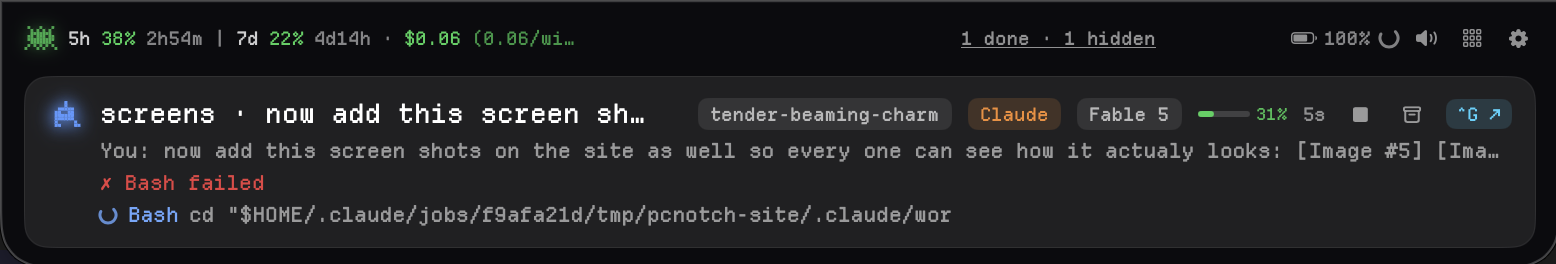
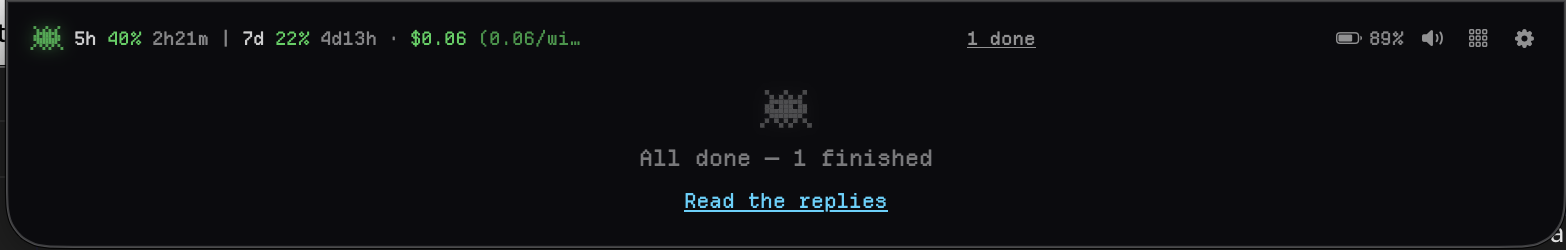
Swap screenshots for new set (live session + All done state)

diff --git a/index.html b/index.html
@@ -534,12 +534,12 @@ footer .flinks { margin-top: 12px; display: flex; gap: 22px; justify-content: ce
     <div class="sec-head reveal">
       <div class="sec-tag">Screenshots</div>
       <h2>The actual app, on a real Mac</h2>
-      <p>PcNotch watching a live Claude session: quota strips, per-session cost and model, tool calls as they run. Yes, that red line is a denied rm -rf.</p>
+      <p>PcNotch over a live Claude session: quota strips, per-session cost and model, the agent's reply right under the notch, and the calm All done state when everything finishes.</p>
     </div>
-    <img class="shot reveal" src="screens/panel-live.png" width="1558" height="490" loading="lazy"
-      alt="PcNotch drop panel over a live Claude session: quota meters, cost, model chip, the agent's reply, and a Bash rm -rf command stopped by a permission denial">
-    <img class="shot reveal" src="screens/focus-card.png" width="1556" height="264" loading="lazy"
-      alt="PcNotch focus card: session title, worktree and model chips, progress meter, and a failed Bash call surfaced in red">
+    <img class="shot reveal" src="screens/panel-live.png" width="1566" height="644" loading="lazy"
+      alt="PcNotch drop panel over a live Claude session: quota meters, cost, model chip, tool calls, and the agent's reply in a console box">
+    <img class="shot reveal" src="screens/focus-card.png" width="1566" height="250" loading="lazy"
+      alt="PcNotch when every session finishes: All done, one finished, read the replies">
   </section>
 
   <!-- TICKER -->
